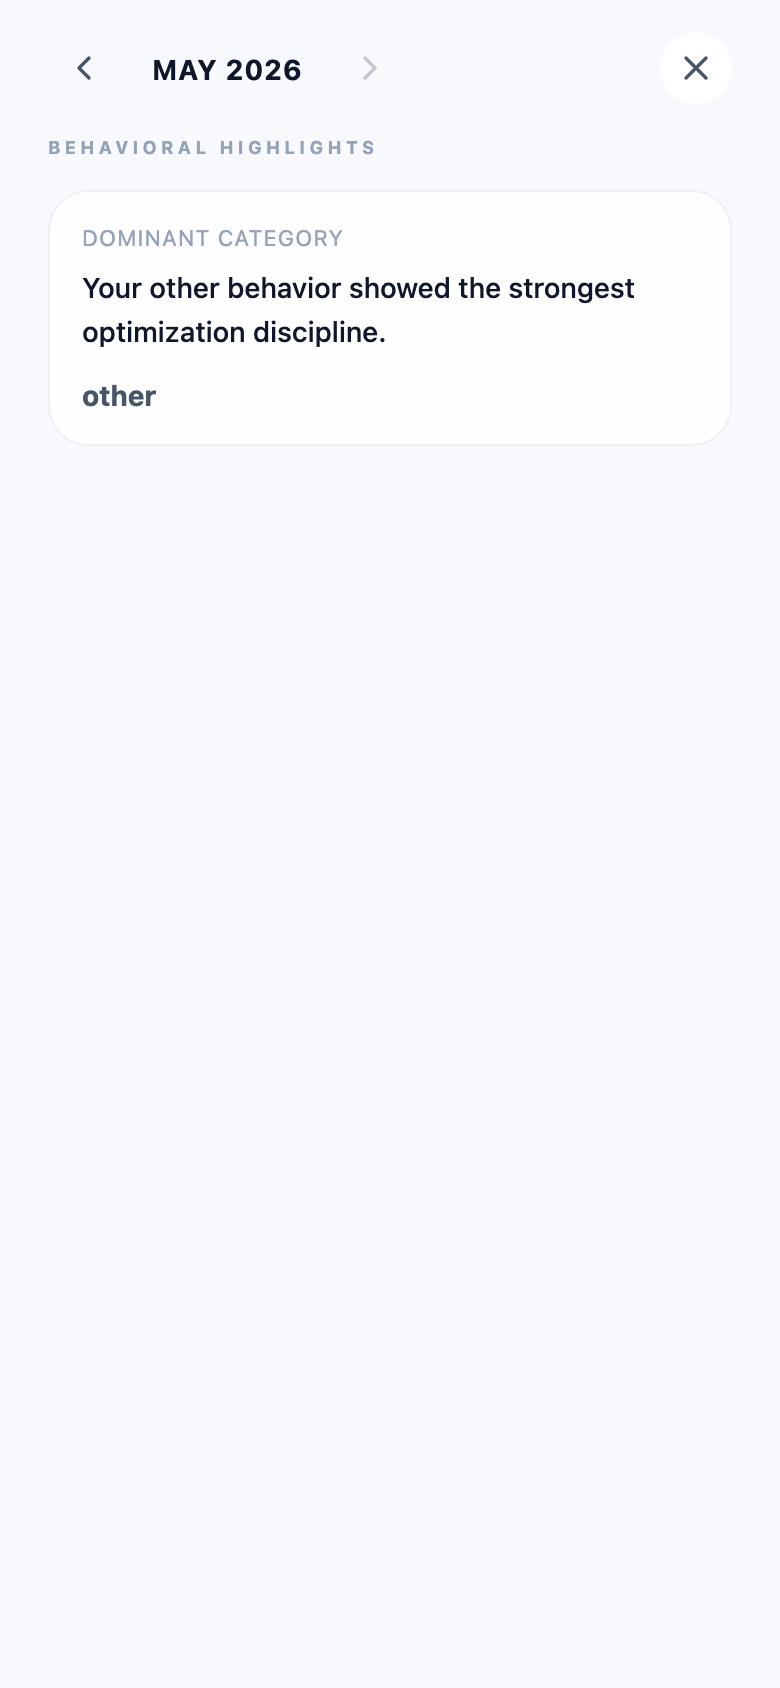
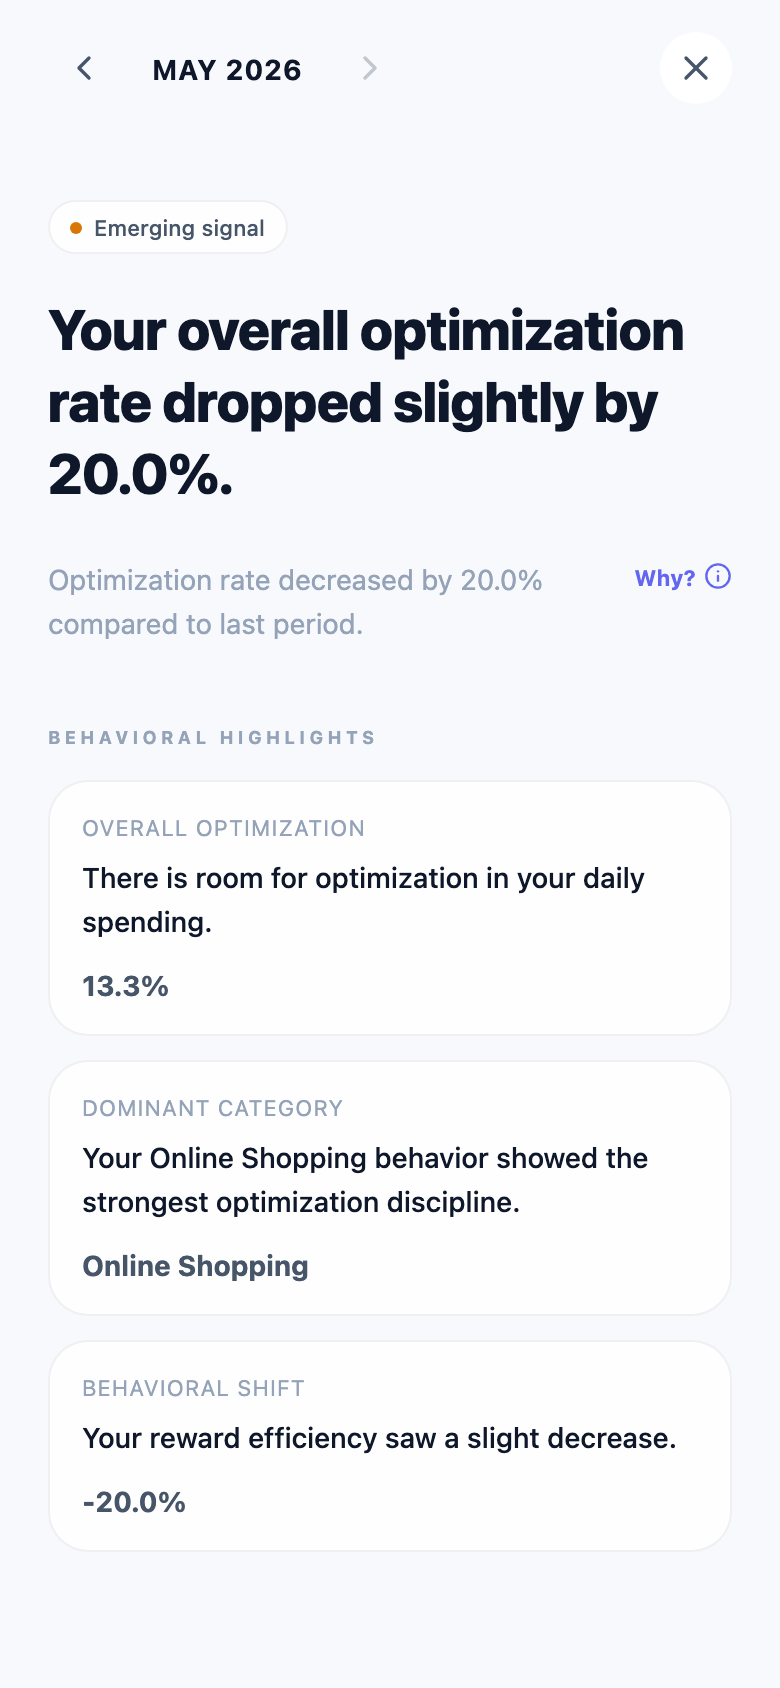
fix(backend): correct novelty scoring timezone to match db naive timestamp

diff --git a/backend/scripts/seed_test_data.py b/backend/scripts/seed_test_data.py
@@ -1,0 +1,80 @@
+import asyncio
+from uuid import UUID, uuid4
+from datetime import datetime, timedelta
+import random
+
+from sqlalchemy import select, text
+from core.database import async_session_factory
+from models.user import User
+from transactions.models import Transaction
+from transactions.constants import TransactionStatus
+from models.transaction_optimization import TransactionOptimizationRecord, AdoptionStatus
+
+async def seed():
+    async with async_session_factory() as session:
+        # Get user
+        result = await session.execute(select(User).where(User.email == "[email redacted]"))
+        user = result.scalar_one_or_none()
+        if not user:
+            print("User [email redacted] not found")
+            return
+
+        print(f"Found user {user.id}")
+        
+        # Clear existing transactions for user to have a clean state
+        await session.execute(text(f"DELETE FROM transaction_optimization_records WHERE user_id = '{user.id}'"))
+        await session.execute(text(f"DELETE FROM transactions WHERE user_id = '{user.id}'"))
+        await session.commit()
+
+        categories = ["Dining", "Groceries", "Travel", "Online Shopping", "Utilities"]
+        
+        now = datetime.now()
+        
+        # Create 50 transactions over the last 90 days
+        for i in range(50):
+            days_ago = random.randint(0, 89)
+            txn_date = now - timedelta(days=days_ago)
+            
+            # Make dining very heavily adopted
+            category = random.choice(categories)
+            if random.random() < 0.4:
+                category = "Dining"
+            
+            amount = round(random.uniform(10.0, 500.0), 2)
+            
+            txn = Transaction(
+                id=uuid4(),
+                user_id=user.id,
+                user_card_id=uuid4(),
+                merchant_name=f"Test Merchant {i}",
+                normalized_merchant=f"merchant_{i}",
+                amount=amount,
+                category=category,
+                transaction_date=txn_date,
+                status=TransactionStatus.POSTED
+            )
+            session.add(txn)
+            await session.flush()
+            
+            # Add optimization records to feed the behavioral engine
+            # For Dining, they almost always adopt
+            if category == "Dining":
+                status = AdoptionStatus.ADOPTED if random.random() < 0.8 else AdoptionStatus.IGNORED
+            else:
+                status = random.choice([AdoptionStatus.ADOPTED, AdoptionStatus.IGNORED, AdoptionStatus.PENDING])
+                
+            opt = TransactionOptimizationRecord(
+                id=uuid4(),
+                transaction_id=txn.id,
+                user_id=user.id,
+                card_id=uuid4(), # dummy card id
+                reward_delta=round(amount * 0.03, 2),
+                adoption_status=status
+            )
+            session.add(opt)
+            
+        await session.commit()
+        print("Seeded 50 transactions and optimizations successfully!")
+
+if __name__ == "__main__":
+    asyncio.run(seed())

diff --git a/backend/monthly_intelligence/suppression/novelty_scoring.py b/backend/monthly_intelligence/suppression/novelty_scoring.py
@@ -48,7 +48,7 @@ class NoveltyScoringEngine:
         return filtered
 
     async def mark_narratives_shown(self, user_id: UUID, narratives: List[Narrative], period: str):
-        now = datetime.now(timezone.utc)
+        now = datetime.utcnow()
         
         for n in narratives:
             if not n.novelty_group: